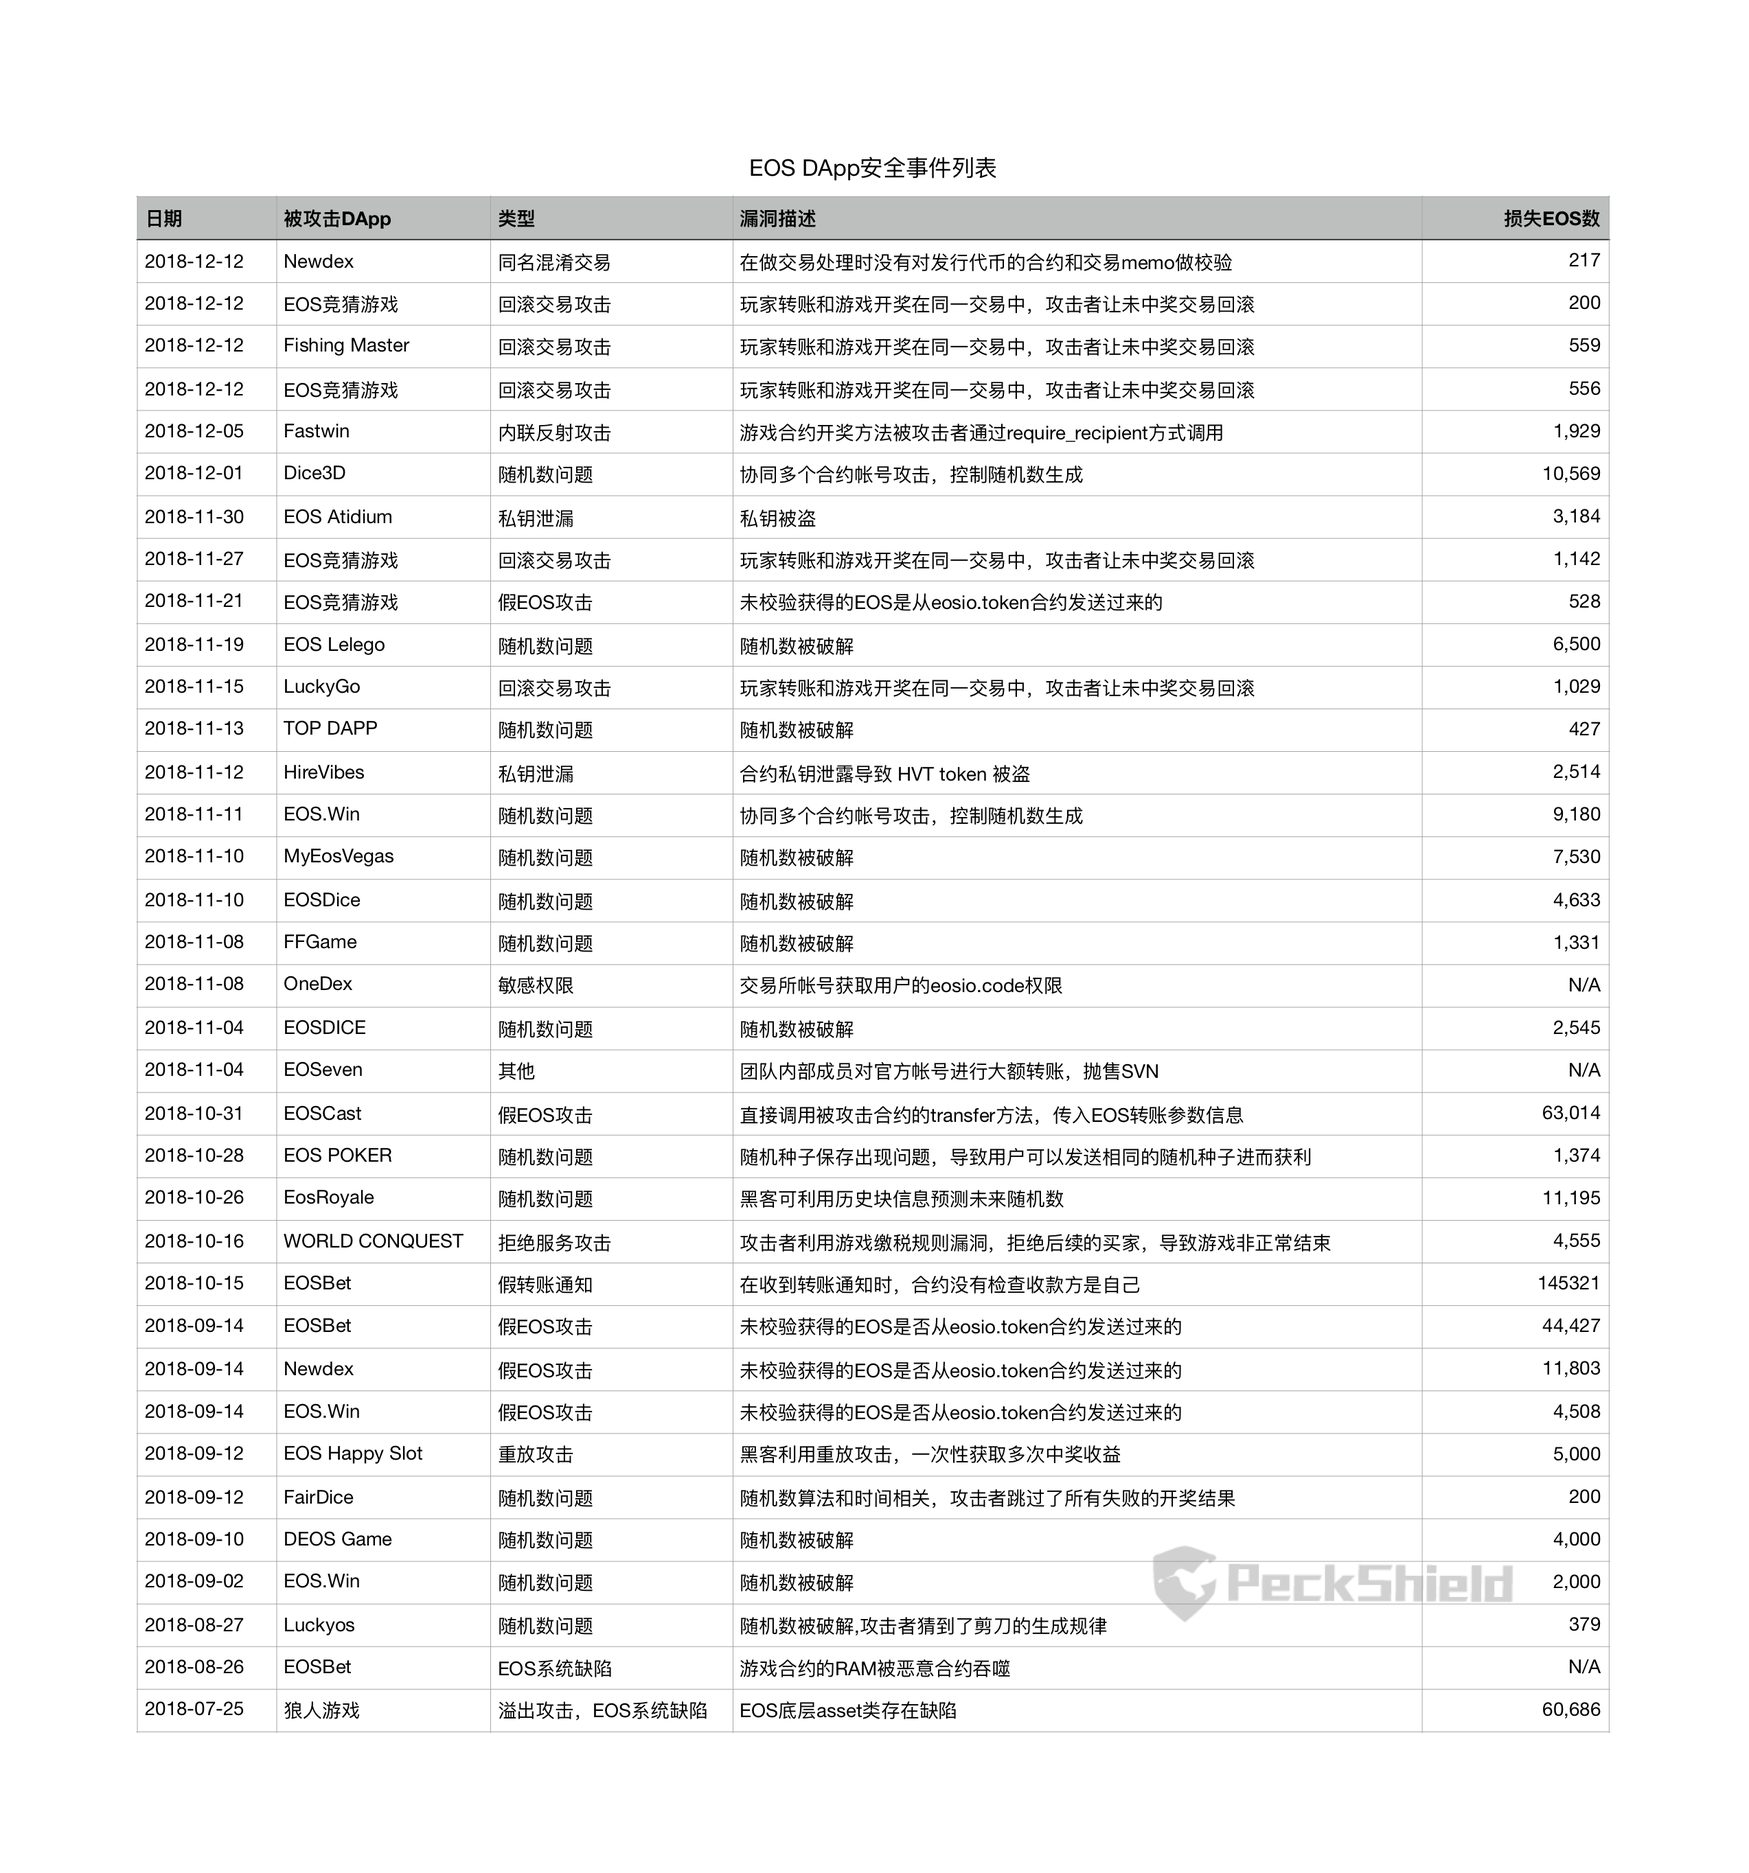
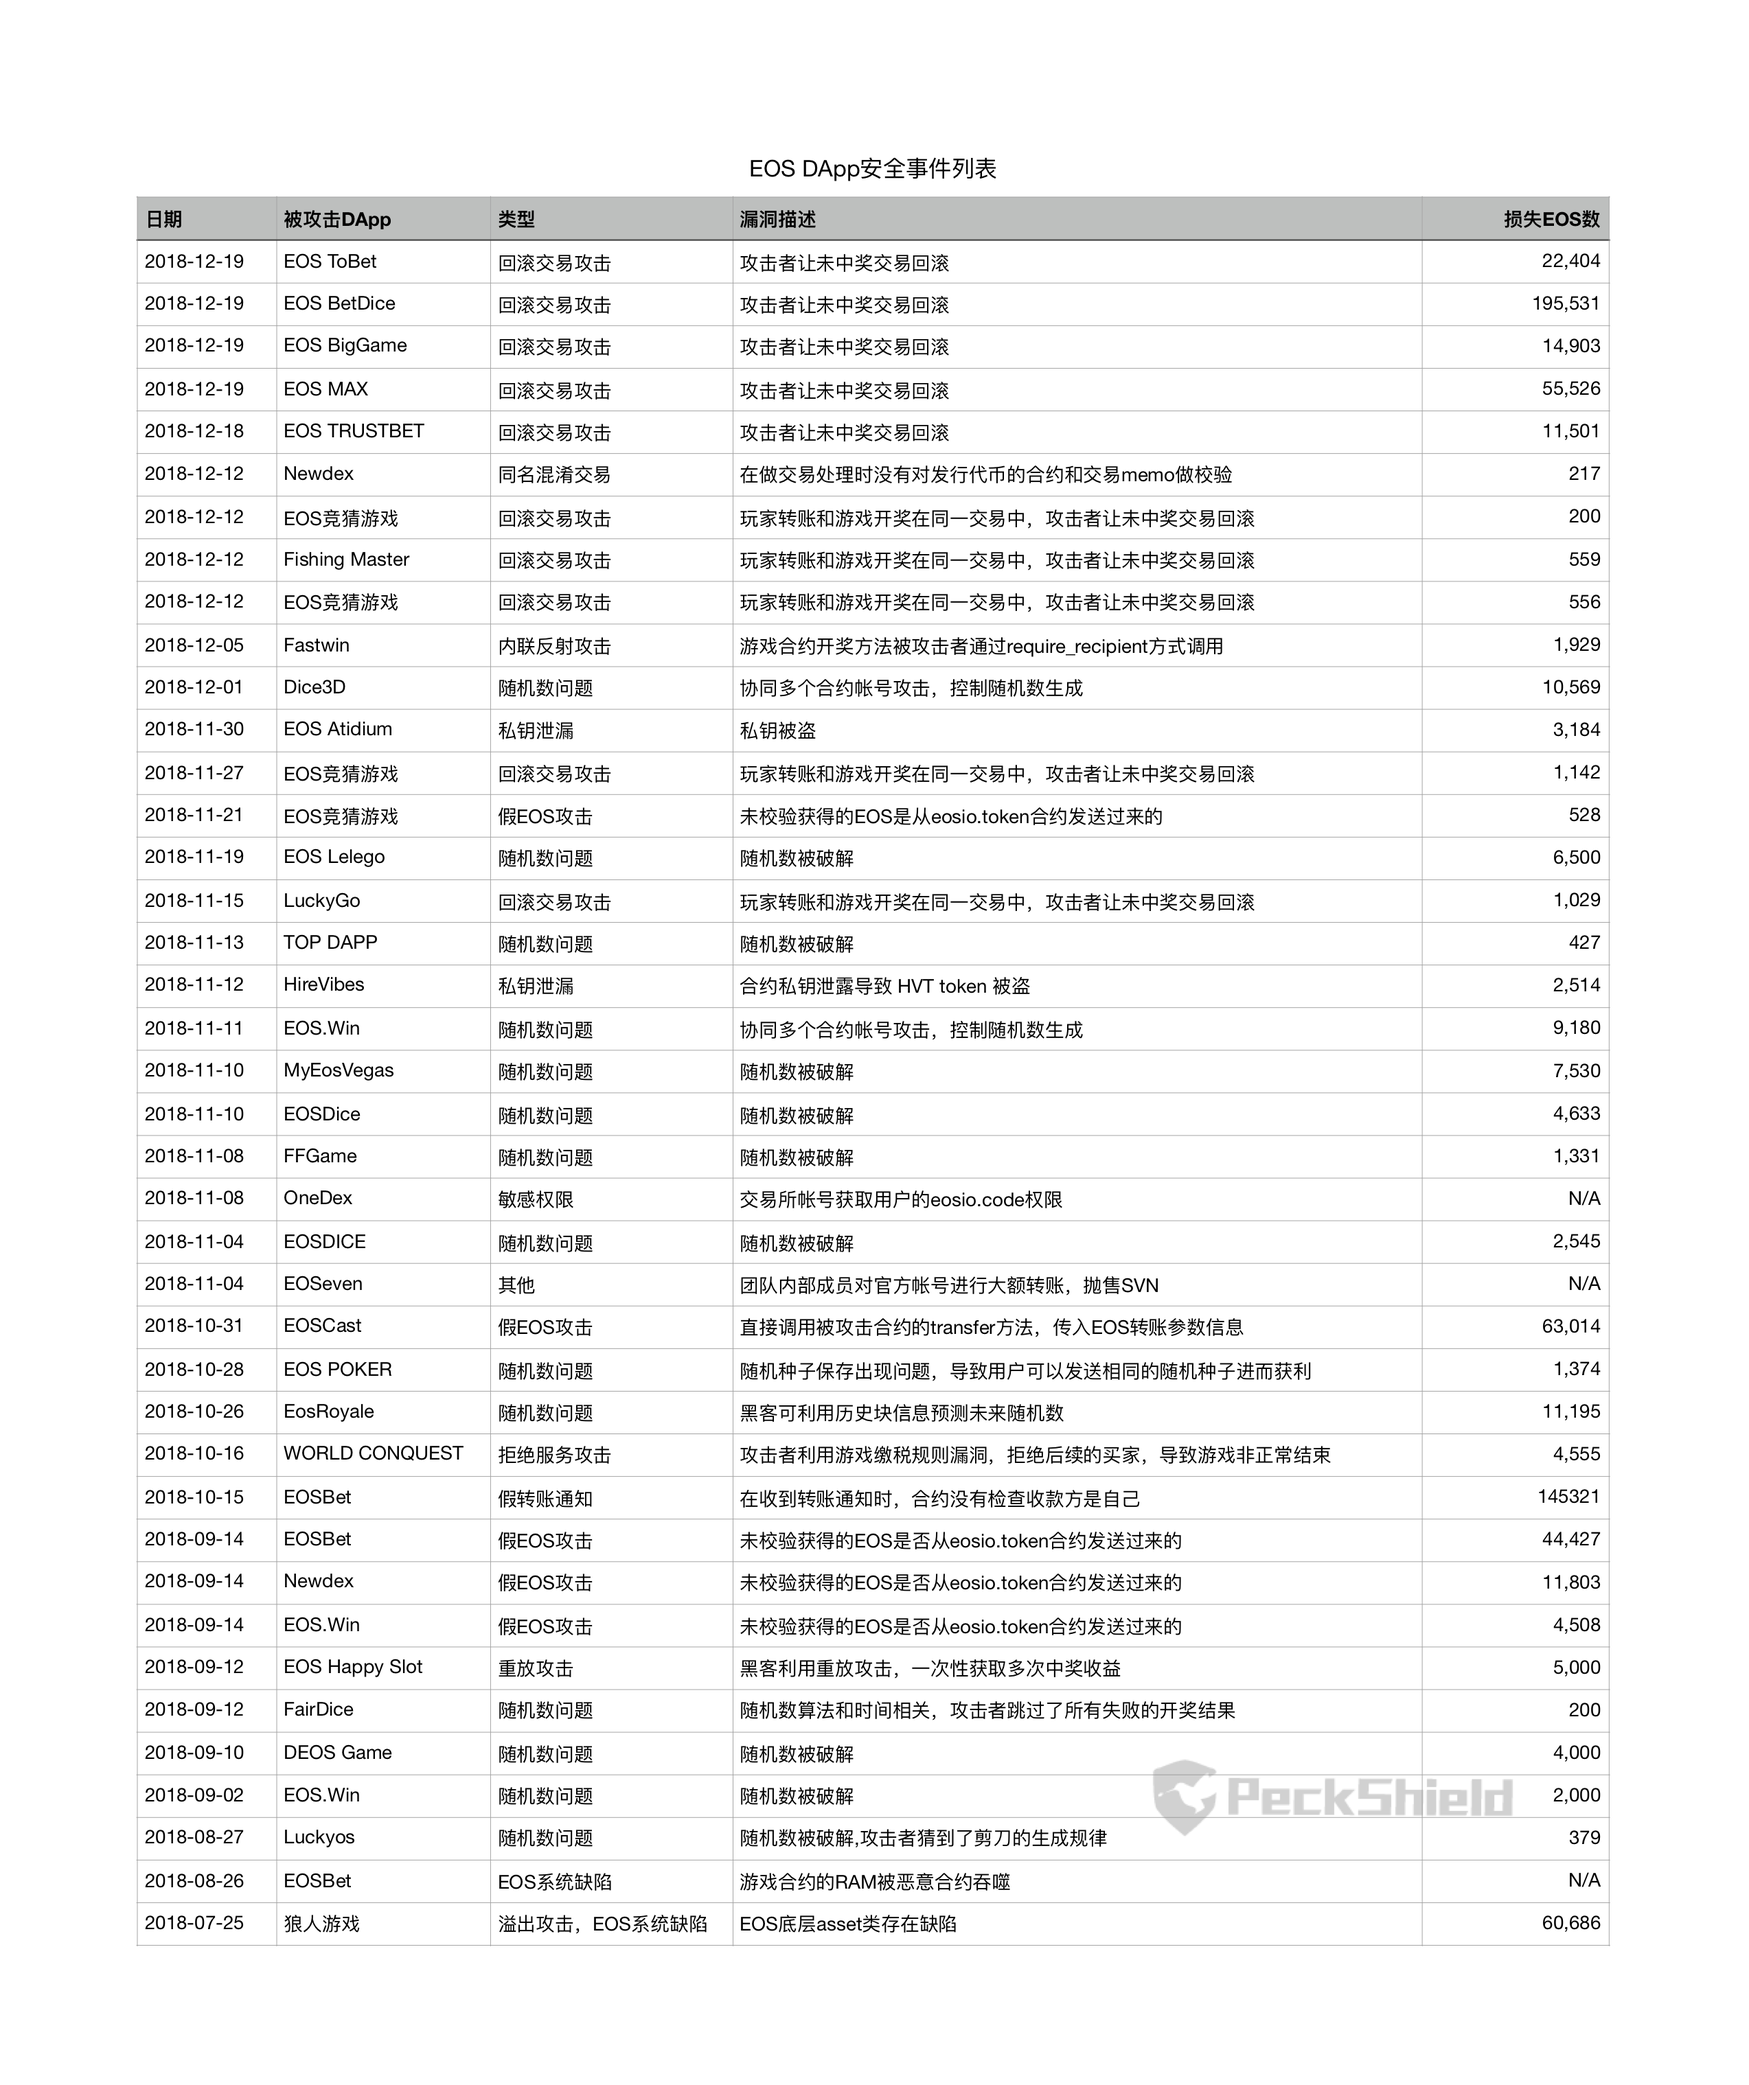
upate 2018-12-20

Changed region(s): [[0.062, 0.0623, 0.9305, 0.9348]]

diff --git a/known_dapp_attacks/README.md b/known_dapp_attacks/README.md
@@ -3,11 +3,11 @@
 本文档根据发生的EOS DApp安全事件不定期更新，旨在记录EOS主网上线以来发生的各类DApp安全事件，供大家参考，同时欢迎大家对该文档提出建议及指正，以完善文档，一起促进EOS的生态健康发展。
 
 ## 概要
-截至2018年12月12日，共发生35起DApp安全事件，共损失超过41万个EOS
+截至2018年12月20日，共发生40起DApp安全事件，共损失超过71万个EOS
 ![EOS DApp安全事件列表](dapp_attacks_summary.png)
 
 ## EOS DApp安全事件列表
-截至2018年12月12日的安全事件列表：
+截至2018年12月20日的安全事件列表：
 ![EOS DApp安全事件列表](eos_dapp_attacks.png)
 
 ## EOS DApp安全事件历史版本
